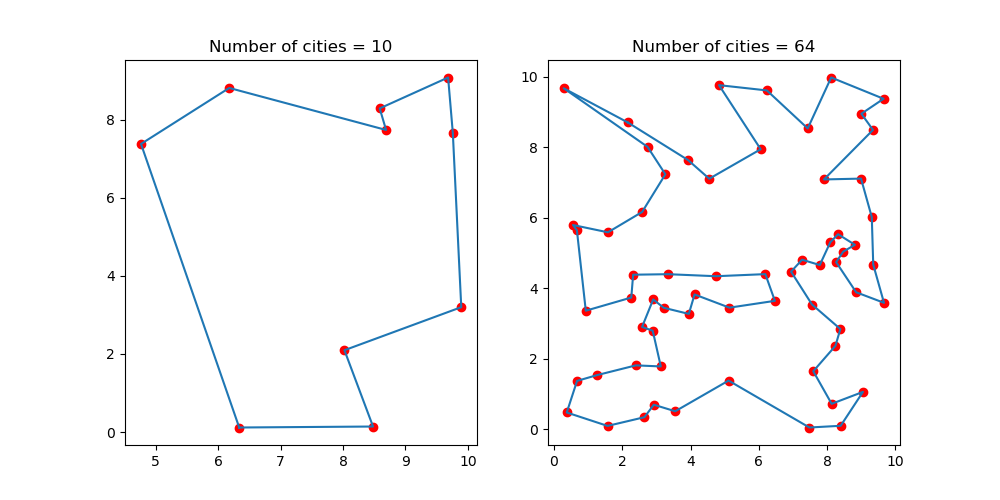
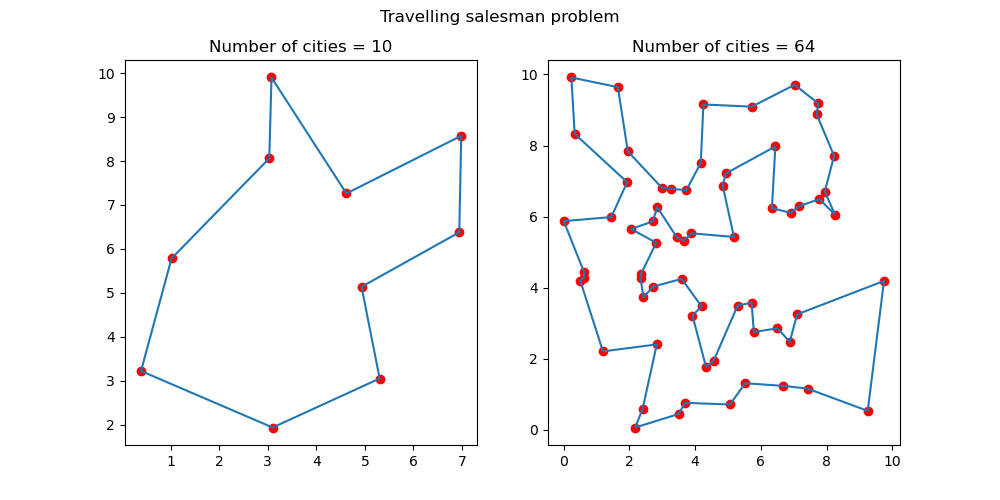
Edit traveling salesman image

diff --git a/examples/travels_salesman.py b/examples/travels_salesman.py
@@ -131,6 +131,7 @@ if __name__ == "__main__":
 
     # Create figure for two subplots
     fig, axs = plt.subplots(1, 2, figsize=(10, 5))
+    fig.suptitle('Travelling salesman problem')
     axs.flatten()
     
     # Draw the genetic algorithm path
@@ -162,7 +163,6 @@ if __name__ == "__main__":
     axs[1].plot(plt_xs, plt_ys)
     axs[1].set_title(f"Number of cities = {num_cities}")
     # axs[1].imshow()
-
     plt.show()
 
 
